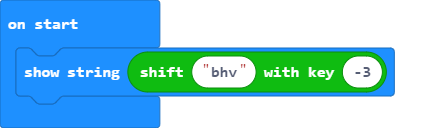
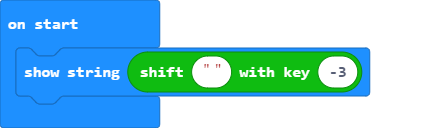
Update pxt.json, main.blocks, main.ts, custom.ts

diff --git a/custom.ts b/custom.ts
@@ -15,6 +15,7 @@ enum MyEnum {
  * Custom blocks
  */
 //% weight=100 color=#0fbc11 icon=""
+//% groups='["Shift Ciphers", "Vigenere Ciphers"]'
 namespace encryption {
     /**
      * TODO: describe your function here
@@ -22,13 +23,17 @@ namespace encryption {
      * @param n describe parameter here, eg: 5
      */
     //% block="shift | %s | with key | %n"
+    //% group="Shift Ciphers"
     export function shift(s: string, n: number): string {
         let alphabet = "abcdefghijklmnopqrstuvwxyz"
         let result = ''
         for (let i = 0; i < s.length; i++){
-            if (s.charAt(i) !== ' '){
-                let index = alphabet.indexOf(s.charAt(i).toLowerCase())
+            let index = alphabet.indexOf(s.charAt(i).toLowerCase())
+            if (index > -1){
                 result = result + alphabet.charAt(Math.mod(index + n, alphabet.length))
+            }
+            else{
+                result = result + s.charAt(i)
             }
         }
         return result
@@ -39,6 +44,7 @@ namespace encryption {
      * @param value describe value here, eg: 5
      */
     //% block
+    //% group="Vigenere Ciphers"
     export function fib(value: number): number {
         return value <= 1 ? value : fib(value -1) + fib(value - 2);
     }

diff --git a/main.ts b/main.ts
@@ -1,1 +1,1 @@
-basic.showString(encryption.shift("bhv", -3))
+basic.showString(encryption.shift("", -3))
